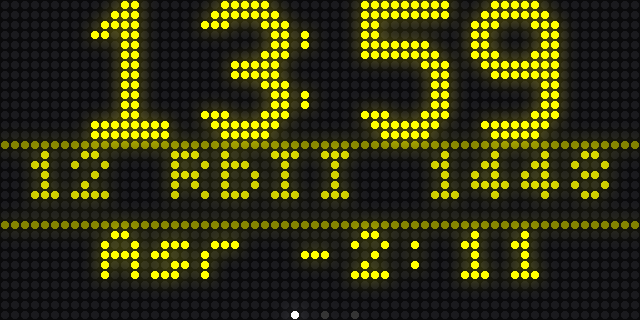
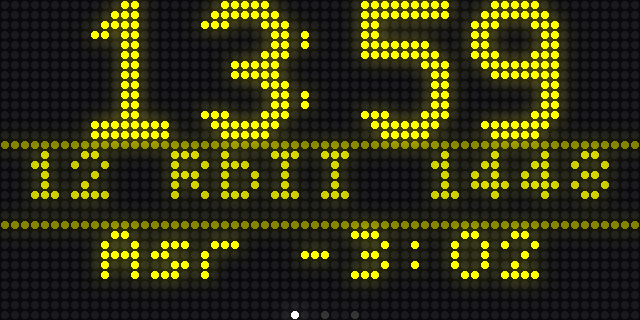
Website: Karachi/Hanafi examples, GPS plugs into the carrier header
Screenshots and the sample settings.txt now use the Karachi method and
Hanafi Asr (the firmware defaults). The wiring diagram and text show the
GPS plugged into the matrix board's spare Pico header, not wired.

Changed region(s): [[0.6875, 0.7188, 0.8438, 0.875], [0.5625, 0.7812, 0.625, 0.875], [0.5312, 0.7188, 0.5625, 0.7812]]

diff --git a/docs/index.html b/docs/index.html
@@ -224,8 +224,8 @@
       <div class="panel" aria-label="The clock's home screen, rotating between three pages">
         <div class="screen" id="hero-screen">
           <img class="on" src="screens/home-morning.png" alt="Clock page: 08:17, Hijri date 12 Rabi' II 1448, and 'Dhuhr -4:32' until the next prayer, in the gold morning colors." width="640" height="320">
-          <img src="screens/home-morning-p2.png" alt="Prayer times page 1: Fajr 05:31 and Sunrise 06:47 dimmed as past, Dhuhr 12:49 highlighted in gold as next." width="640" height="320" loading="lazy">
-          <img src="screens/home-morning-p3.png" alt="Prayer times page 2: Asr 16:10, Maghrib 18:48, Isha 20:03." width="640" height="320" loading="lazy">
+          <img src="screens/home-morning-p2.png" alt="Prayer times page 1: Fajr 05:15 and Sunrise 06:47 dimmed as past, Dhuhr 12:49 highlighted in gold as next." width="640" height="320" loading="lazy">
+          <img src="screens/home-morning-p3.png" alt="Prayer times page 2: Asr 17:01, Maghrib 18:48, Isha 20:19." width="640" height="320" loading="lazy">
         </div>
         <div class="panel-caption">
           <span>Rotates every 5 seconds, like the real clock</span>
@@ -303,7 +303,7 @@
   <section id="screens" class="alt">
     <div class="wrap">
       <h2>Screens</h2>
-      <p class="section-lede">These are rendered from the firmware's own drawing code, pixel for pixel, for a sample day in New York (ISNA method). <a href="https://github.com/meelash/adhan-clock/tree/master/tools/screenshots">How they're made</a>.</p>
+      <p class="section-lede">These are rendered from the firmware's own drawing code, pixel for pixel, for a sample day in New York (Karachi method, Hanafi Asr). <a href="https://github.com/meelash/adhan-clock/tree/master/tools/screenshots">How they're made</a>.</p>
 
       <div class="gallery-group">
         <h3>Prayer time</h3>
@@ -318,7 +318,7 @@
         <h3>Settings</h3>
         <div class="gallery">
           <figure class="shot"><img src="screens/menu.png" alt="Settings menu with Calc Method selected" width="640" height="320" loading="lazy"><figcaption><b>Settings menu</b>14 entries. Press 5 to open, 2 and 8 to move, CH- to go back.</figcaption></figure>
-          <figure class="shot"><img src="screens/calc-method.png" alt="Calculation method list with ISNA selected" width="640" height="320" loading="lazy"><figcaption><b>Calculation method</b>Pick from 12 methods.</figcaption></figure>
+          <figure class="shot"><img src="screens/calc-method.png" alt="Calculation method list with Karachi selected" width="640" height="320" loading="lazy"><figcaption><b>Calculation method</b>Pick from 12 methods.</figcaption></figure>
           <figure class="shot"><img src="screens/adjustments.png" alt="Adjustments: Maghrib +3m" width="640" height="320" loading="lazy"><figcaption><b>Adjustments</b>Nudge each prayer by whole minutes to match your masjid.</figcaption></figure>
           <figure class="shot"><img src="screens/adhan-file.png" alt="Adhan file chooser showing makkah.wav, 1 of 4, selected" width="640" height="320" loading="lazy"><figcaption><b>Adhan file</b>Choose from the WAV files in <code>/adhan</code> on the card.</figcaption></figure>
           <figure class="shot"><img src="screens/set-time.png" alt="Set time: 2026-09-25 14:42 with the hour field highlighted" width="640" height="320" loading="lazy"><figcaption><b>Set time</b>Only needed without GPS, or if the RTC battery died.</figcaption></figure>
@@ -327,7 +327,7 @@
           <figure class="shot"><img src="screens/brightness.png" alt="Brightness: AUTO" width="640" height="320" loading="lazy"><figcaption><b>Brightness</b>Auto uses the light sensor, or pick 1 to 16.</figcaption></figure>
           <figure class="shot"><img src="screens/timezone.png" alt="Timezone UTC-5:00 (standard)" width="640" height="320" loading="lazy"><figcaption><b>Time zone</b>Your standard (winter) offset from UTC.</figcaption></figure>
           <figure class="shot"><img src="screens/dst.png" alt="DST: Auto US, now +1h" width="640" height="320" loading="lazy"><figcaption><b>Daylight saving</b>Off, on, or automatic on US or EU rules.</figcaption></figure>
-          <figure class="shot"><img src="screens/asr-method.png" alt="Asr method: Standard" width="640" height="320" loading="lazy"><figcaption><b>Asr method</b>Standard or Hanafi.</figcaption></figure>
+          <figure class="shot"><img src="screens/asr-method.png" alt="Asr method: Hanafi" width="640" height="320" loading="lazy"><figcaption><b>Asr method</b>Standard or Hanafi.</figcaption></figure>
           <figure class="shot"><img src="screens/key-beep.png" alt="Key beep: On" width="640" height="320" loading="lazy"><figcaption><b>Key beep</b>A click from the buzzer on each remote key press.</figcaption></figure>
         </div>
       </div>
@@ -425,6 +425,7 @@
             <ul>
               <li>GPS, BeiDou and QZSS, &lt; 2.5 m accuracy, UART at 9600 baud</li>
               <li>Holder for an ML1220 cell to speed up later fixes</li>
+              <li>Plugs straight into the spare Pico header on the matrix board. No wiring needed</li>
               <li>Without it, set your coordinates in <code>settings.txt</code> and the time from the remote</li>
             </ul>
           </div>
@@ -450,10 +451,10 @@
   <section id="wiring" class="alt">
     <div class="wrap">
       <h2>Wiring</h2>
-      <p class="section-lede">The Pico plugs into the matrix carrier board, which uses most of its pins. The SD breakout and Pico-Audio are wired to the few pins left, and some of those are shared with the carrier's buttons.</p>
+      <p class="section-lede">The Pico and the optional GPS both plug into headers on the matrix carrier board, which uses most of the Pico's pins. Only the SD breakout and Pico-Audio need jumper wires, to the few pins left. Some of those pins are shared with the carrier's buttons.</p>
 
       <div class="diagram">
-        <img src="img/wiring.svg" alt="Wiring diagram. SD breakout: MOSI to GP0, SCK to GP14, MISO to GP15, CS to GP22, VCC to VBUS. GPS: TX to GP1, RX on GP0. Pico-Audio: BCK to GP21, DIN to GP19, LRCK to GP17, power from VSYS and 3V3. The tables below list the same connections." width="1100" height="720">
+        <img src="img/wiring.svg" alt="Wiring diagram. SD breakout: MOSI to GP0, SCK to GP14, MISO to GP15, CS to GP22, VCC to VBUS. GPS, plugged into the carrier's spare header: TX on GP1, RX on GP0. Pico-Audio: BCK to GP21, DIN to GP19, LRCK to GP17, power from VSYS and 3V3. The tables below list the same connections." width="1100" height="720">
       </div>
 
       <div class="tables">
@@ -486,7 +487,8 @@
           </table>
         </div>
         <div class="tcard">
-          <h3><span class="dot" style="background:var(--gold)"></span>GPS (optional)</h3>
+          <h3><span class="dot" style="background:var(--gold)"></span>GPS (optional, plugs in)</h3>
+          <p style="margin:0 0 8px;color:var(--ink-2);font-size:.9rem">Plug it into the carrier board's spare Pico header. The header makes these connections for you.</p>
           <table>
             <thead><tr><th>GPS</th><th>Pico</th><th>Pin #</th></tr></thead>
             <tbody>
@@ -541,8 +543,8 @@ timezone = -5
 dst = us
 
 <span class="c"># --- Prayer calculation ---</span>
-method = isna
-asr = standard
+method = karachi
+asr = hanafi
 
 <span class="c"># --- Adhan audio (files in the /adhan folder) ---</span>
 adhan = makkah.wav

diff --git a/tools/screenshots/render_screens.c b/tools/screenshots/render_screens.c
@@ -44,7 +44,7 @@ static void save(const char *name) {
     printf("%s\n", name);
 }
 
-/* ── Sample day: New York, ISNA, US DST (in effect on this date) ────────── */
+/* ── Sample day: New York, Karachi method, Hanafi Asr, US DST in effect ── */
 static prayer_day_t day;
 static hijri_date_t hijri_base;
 
@@ -71,8 +71,8 @@ int main(int argc, char **argv) {
 
     prayer_config_t cfg;
     prayer_config_defaults(&cfg);
-    cfg.method     = CALC_ISNA;
-    cfg.asr_method = ASR_STANDARD;
+    cfg.method     = CALC_KARACHI;
+    cfg.asr_method = ASR_HANAFI;
     cfg.latitude   = 40.7128;
     cfg.longitude  = -74.0060;
     cfg.timezone   = -4.0;          /* EST + DST */
@@ -109,8 +109,8 @@ int main(int argc, char **argv) {
 
     rtc_time_t st = { .minute = 42, .hour = 14, .day = 25, .month = 9, .year = 2026 };
     screen_render_set_time(&st, 3, true);                 save("set-time");
-    screen_render_calc_method(CALC_ISNA);                  save("calc-method");
-    screen_render_asr_method(ASR_STANDARD);                save("asr-method");
+    screen_render_calc_method(CALC_KARACHI);                 save("calc-method");
+    screen_render_asr_method(ASR_HANAFI);                  save("asr-method");
     int adj[PRAYER_COUNT] = { 0, 0, 2, 0, 3, 0 };
     screen_render_adjustments(adj, PRAYER_MAGHRIB);        save("adjustments");
     screen_render_hijri_adj(0, &hijri_base);               save("hijri-adj");

diff --git a/tools/wiring_diagram.py b/tools/wiring_diagram.py
@@ -72,7 +72,7 @@ add(f'<svg xmlns="http://www.w3.org/2000/svg" viewBox="0 0 {W} {H}" width="{W}" 
     f'role="img" aria-labelledby="t d">')
 add('<title id="t">Adhan Clock wiring</title>')
 add('<desc id="d">Raspberry Pi Pico pinout. SD card: MOSI GP0, SCK GP14, MISO GP15, CS GP22, '
-    'power from VBUS. GPS: TX to GP1, RX shares GP0. Pico-Audio: DIN GP19, BCK GP21, LRCK GP17, '
+    'power from VBUS. GPS, plugged into the carrier board\'s spare header: TX to GP1, RX shares GP0. Pico-Audio: DIN GP19, BCK GP21, LRCK GP17, '
     'power from VSYS and 3V3. All other pins are used by the matrix carrier board.</desc>')
 
 # ── Pico board ──
@@ -104,10 +104,11 @@ for j, name in enumerate(RIGHT):
 
 # ── GPS (top left) ──
 gx, gy, gw, gh = 70, 64, 250, 118
-module(gx, gy, gw, gh, "Pico-GPS-L76B", "optional · 9600 baud UART", GPS)
+module(gx, gy, gw, gh, "Pico-GPS-L76B", "optional · plugs into the carrier", GPS)
 module_pin(gx + gw, ly(0), "RX", GPS)
 module_pin(gx + gw, ly(1), "TX", GPS)
-text(gx + 14, gy + gh - 14, "5V → VSYS · GND", PWR, 12, family="mono")
+text(gx + 14, gy + gh - 34, "No wires: the carrier's spare", DIM, 12)
+text(gx + 14, gy + gh - 16, "Pico header makes these links", DIM, 12)
 
 # ── SD card (bottom left) ──
 sx, sy, sw, sh = 70, 372, 250, 236
